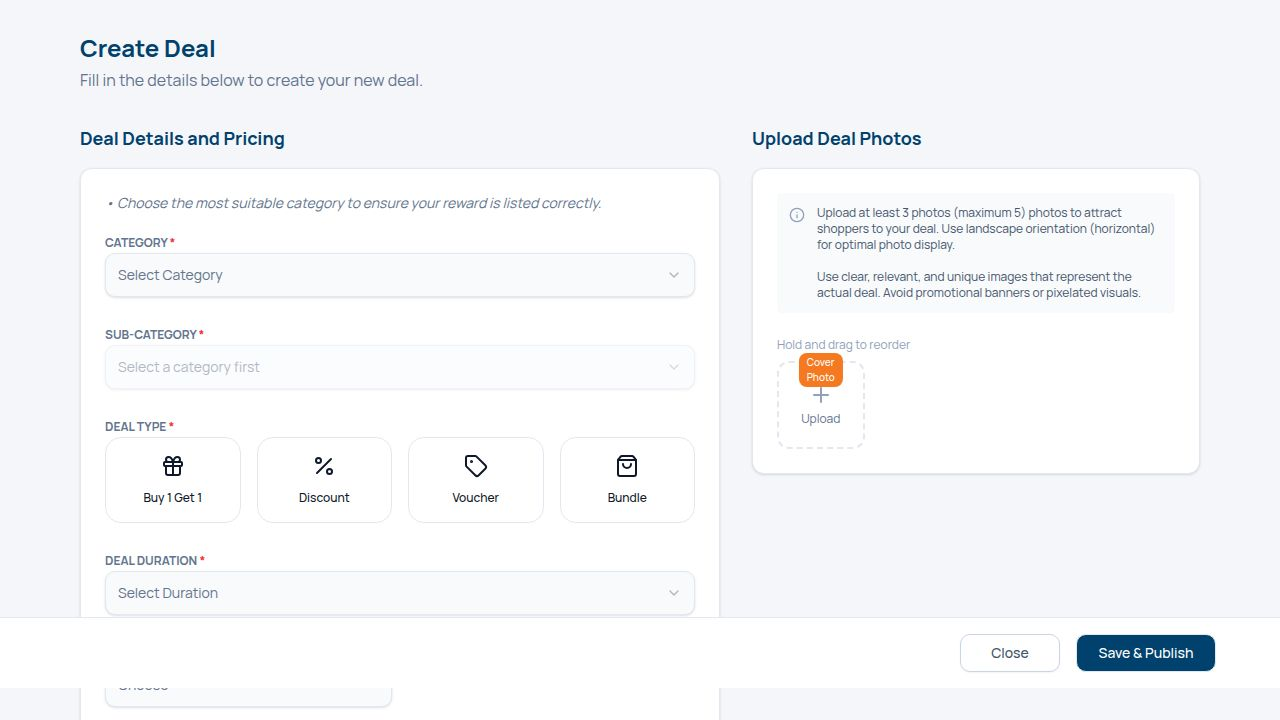
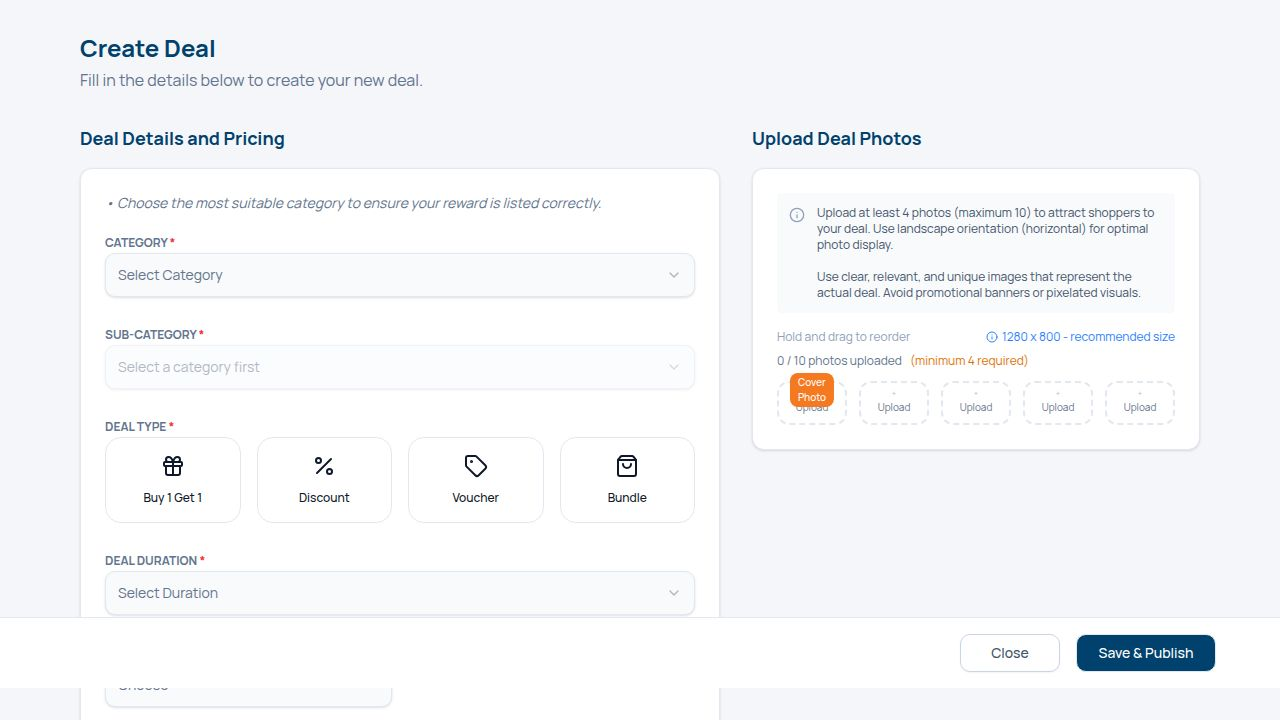
Add terms management to admin panel and allow multiple image uploads
Introduces CRUD operations for terms management via new API routes and storage methods, updates the schema, and enhances the CreateOffer form to support multiple image uploads.

Replit-Commit-Author: Agent
Replit-Commit-Session-Id: 41c7e29b-400f-445d-9913-100b2bde913e
Replit-Commit-Checkpoint-Type: intermediate_checkpoint
Replit-Commit-Event-Id: db49bd36-7c86-4c08-8e03-4cde39029571
Replit-Commit-Screenshot-Url: https://storage.googleapis.com/screenshot-production-us-central1/b394de88-7ddf-4ef4-a4ce-ed4d9d0f175d/41c7e29b-400f-445d-9913-100b2bde913e/xI2m8r2
Replit-Helium-Checkpoint-Created: true

diff --git a/server/routes.ts b/server/routes.ts
@@ -1,7 +1,7 @@
 import type { Express, Request, Response, NextFunction } from "express";
 import { createServer, type Server } from "http";
 import { storage } from "./storage";
-import { insertDealSchema, insertAdminUserSchema, insertCategorySchema, insertSubCategorySchema } from "@shared/schema";
+import { insertDealSchema, insertAdminUserSchema, insertCategorySchema, insertSubCategorySchema, insertTermSchema } from "@shared/schema";
 import bcrypt from "bcryptjs";
 import session from "express-session";
 import connectPgSimple from "connect-pg-simple";
@@ -297,6 +297,60 @@ export async function registerRoutes(
       }
 
       res.json({ success: true, count: createdDeals.length });
+    } catch (error: any) {
+      res.status(500).json({ error: error.message });
+    }
+  });
+
+  // Terms management routes
+  app.get("/api/terms", async (req, res) => {
+    try {
+      const allTerms = await storage.getAllTerms();
+      res.json(allTerms);
+    } catch (error: any) {
+      res.status(500).json({ error: error.message });
+    }
+  });
+
+  app.get("/api/terms/:type", async (req, res) => {
+    try {
+      const typeTerms = await storage.getTermsByType(req.params.type);
+      res.json(typeTerms);
+    } catch (error: any) {
+      res.status(500).json({ error: error.message });
+    }
+  });
+
+  app.post("/api/terms", requireAuth, async (req, res) => {
+    try {
+      const validatedData = insertTermSchema.parse(req.body);
+      const term = await storage.createTerm(validatedData);
+      res.status(201).json(term);
+    } catch (error: any) {
+      res.status(400).json({ error: error.message });
+    }
+  });
+
+  app.patch("/api/terms/:id", requireAuth, async (req, res) => {
+    try {
+      const { text } = req.body;
+      if (!text) {
+        return res.status(400).json({ error: "Text is required" });
+      }
+      const term = await storage.updateTerm(req.params.id, text);
+      if (!term) {
+        return res.status(404).json({ error: "Term not found" });
+      }
+      res.json(term);
+    } catch (error: any) {
+      res.status(500).json({ error: error.message });
+    }
+  });
+
+  app.delete("/api/terms/:id", requireAuth, async (req, res) => {
+    try {
+      await storage.deleteTerm(req.params.id);
+      res.json({ success: true });
     } catch (error: any) {
       res.status(500).json({ error: error.message });
     }

diff --git a/client/src/pages/CreateOffer.tsx b/client/src/pages/CreateOffer.tsx
@@ -197,7 +197,10 @@ export default function CreateOffer() {
 
   const handleFileChange = (e: ChangeEvent<HTMLInputElement>) => {
     if (e.target.files && e.target.files.length > 0) {
-      if (uploadedImages.length >= MAX_PHOTOS) {
+      const files = Array.from(e.target.files);
+      const remaining = MAX_PHOTOS - uploadedImages.length;
+      
+      if (remaining <= 0) {
         toast({
           title: "Maximum images reached",
           description: `You can only upload up to ${MAX_PHOTOS} images`,
@@ -206,15 +209,25 @@ export default function CreateOffer() {
         return;
       }
 
-      const file = e.target.files[0];
-      setOriginalFile(file);
-      setEditingIndex(null);
-      const reader = new FileReader();
-      reader.onload = () => {
-        setImageToCrop(reader.result as string);
-        setShowCropper(true);
-      };
-      reader.readAsDataURL(file);
+      const filesToUpload = files.slice(0, remaining);
+      const newImages = filesToUpload.map(file => ({
+        file,
+        preview: URL.createObjectURL(file)
+      }));
+      
+      setUploadedImages(prev => [...prev, ...newImages]);
+      toast({
+        title: "Images uploaded",
+        description: `Successfully added ${filesToUpload.length} image(s)`,
+      });
+      
+      if (files.length > remaining) {
+        toast({
+          title: "Some images skipped",
+          description: `Only ${remaining} more image(s) allowed (max ${MAX_PHOTOS})`,
+          variant: "destructive",
+        });
+      }
       
       if (fileInputRef.current) {
         fileInputRef.current.value = '';
@@ -1135,6 +1148,7 @@ export default function CreateOffer() {
                         ref={fileInputRef} 
                         className="hidden" 
                         accept="image/*"
+                        multiple
                         onChange={handleFileChange}
                         data-testid="input-image-upload"
                       />

diff --git a/server/storage.ts b/server/storage.ts
@@ -3,7 +3,8 @@ import {
   type AdminUser, type InsertAdminUser, 
   type Category, type InsertCategory,
   type SubCategory, type InsertSubCategory,
-  deals, adminUsers, categories, subCategories 
+  type Term, type InsertTerm,
+  deals, adminUsers, categories, subCategories, terms 
 } from "@shared/schema";
 import { db } from "./db";
 import { eq } from "drizzle-orm";
@@ -27,6 +28,11 @@ export interface IStorage {
   getAllSubCategories(): Promise<SubCategory[]>;
   updateSubCategory(id: string, name: string): Promise<SubCategory | undefined>;
   deleteSubCategory(id: string): Promise<void>;
+  createTerm(term: InsertTerm): Promise<Term>;
+  getAllTerms(): Promise<Term[]>;
+  getTermsByType(type: string): Promise<Term[]>;
+  updateTerm(id: string, text: string): Promise<Term | undefined>;
+  deleteTerm(id: string): Promise<void>;
 }
 
 export class DatabaseStorage implements IStorage {
@@ -138,6 +144,32 @@ export class DatabaseStorage implements IStorage {
 
   async deleteSubCategory(id: string): Promise<void> {
     await db.delete(subCategories).where(eq(subCategories.id, id));
+  }
+
+  async createTerm(term: InsertTerm): Promise<Term> {
+    const [newTerm] = await db.insert(terms).values(term).returning();
+    return newTerm;
+  }
+
+  async getAllTerms(): Promise<Term[]> {
+    return await db.select().from(terms);
+  }
+
+  async getTermsByType(type: string): Promise<Term[]> {
+    return await db.select().from(terms).where(eq(terms.type, type));
+  }
+
+  async updateTerm(id: string, text: string): Promise<Term | undefined> {
+    const [updated] = await db
+      .update(terms)
+      .set({ text })
+      .where(eq(terms.id, id))
+      .returning();
+    return updated;
+  }
+
+  async deleteTerm(id: string): Promise<void> {
+    await db.delete(terms).where(eq(terms.id, id));
   }
 }
 

diff --git a/shared/schema.ts b/shared/schema.ts
@@ -79,3 +79,18 @@ export const insertSubCategorySchema = createInsertSchema(subCategories).omit({
 
 export type InsertSubCategory = z.infer<typeof insertSubCategorySchema>;
 export type SubCategory = typeof subCategories.$inferSelect;
+
+export const terms = pgTable("terms", {
+  id: varchar("id").primaryKey().default(sql`gen_random_uuid()`),
+  type: text("type").notNull(),
+  text: text("text").notNull(),
+  createdAt: timestamp("created_at").notNull().defaultNow(),
+});
+
+export const insertTermSchema = createInsertSchema(terms).omit({
+  id: true,
+  createdAt: true,
+});
+
+export type InsertTerm = z.infer<typeof insertTermSchema>;
+export type Term = typeof terms.$inferSelect;
